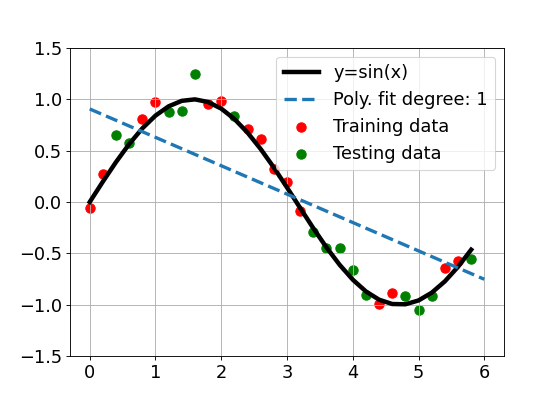
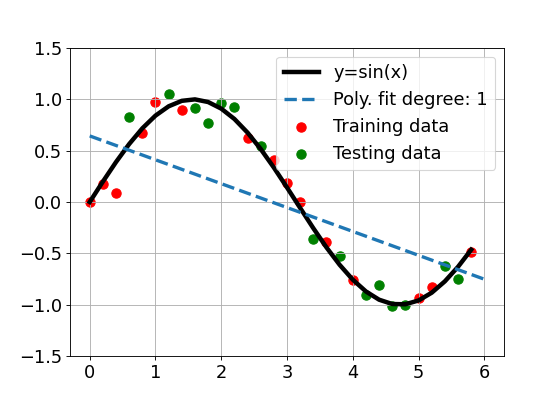
Added pure plot without noise.

diff --git a/ml_example.py b/ml_example.py
@@ -28,9 +28,9 @@ if __name__ == "__main__":
     tr_data = data[:15]
     ts_data = data[15:]
 
-    plt.plot(time, sine, color='black', linewidth=5)
-    plt.scatter(time, noisy_sine, s=90)
-
+    plt.plot(time, sine, color='black', linewidth=5, zorder=1)
+    plt.scatter(time, sine, s=90, zorder=2)
+    
     plt.legend(["y=sin(x)", "Complete data set"])
     plt.savefig('figures/ML/pure.png')
 
